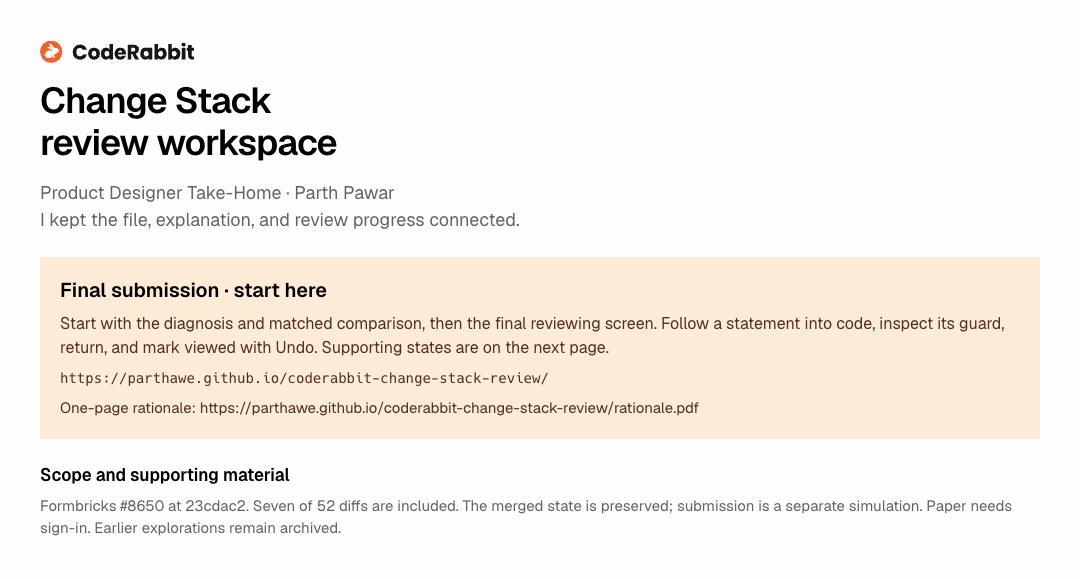
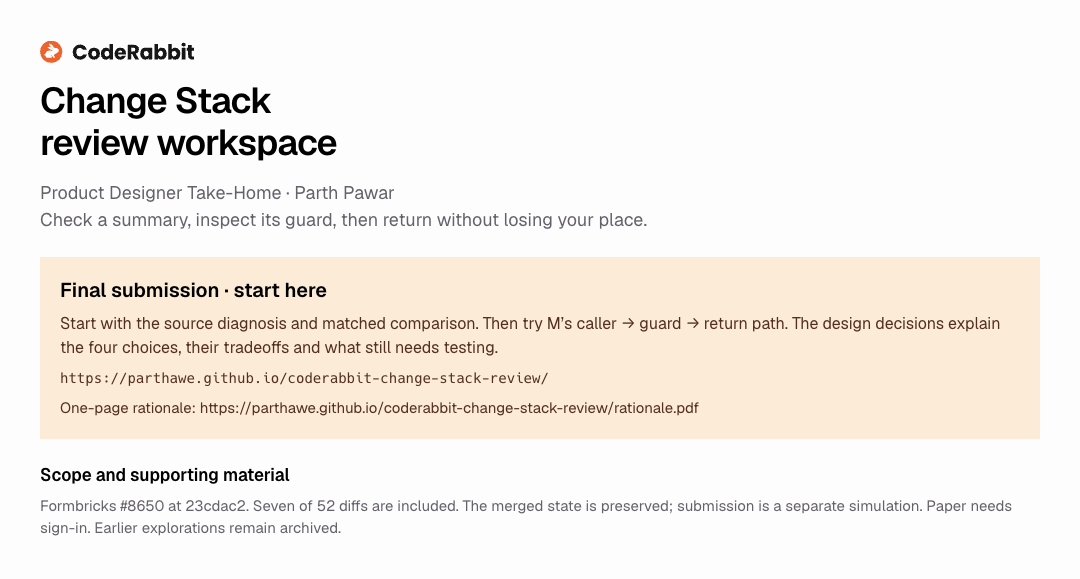
Document the four review decisions and their evidence

Changed region(s): [[0.0611, 0.5285, 0.9167, 0.6218], [0.0306, 0.3731, 0.6111, 0.4041]]

diff --git a/dist/rationale.html b/dist/rationale.html
@@ -1,1 +1,1 @@
-<!doctype html><html lang="en"><head><meta charset="utf-8"><meta name="viewport" content="width=device-width,initial-scale=1"><title>Change Stack — Design rationale</title><link rel="stylesheet" href="styles.css?v=brand-20261019"><style>body{display:block;overflow:auto;height:auto;min-width:0;background:white}article{max-width:850px;margin:64px auto;padding:0 32px 48px}h1{white-space:normal;font-size:32px;line-height:1.2;letter-spacing:-.03em;font-weight:600}h2{font-size:18px;margin:28px 0 12px}p{margin:12px 0;line-height:1.6;color:#65616a}table{border-collapse:collapse;width:100%;font-size:14px;margin:20px 0}th{text-align:left;color:#211f24;font-weight:500;background:#faf8fb}td,th{padding:14px 16px;border-bottom:1px solid #e3e0e7;vertical-align:top}td:first-child{width:36%;font-weight:500;color:#211f24}nav{margin-bottom:24px}.byline{font-size:13px;color:#65616a;margin-top:16px}.small{font-size:12px}@media print{article{margin:0;padding:0}nav{display:none}h1{font-size:24px}body{font-size:12px}table{font-size:11px}td,th{padding:10px}h2{font-size:15px;margin:18px 0 8px}@page{size:A4;margin:18mm}}</style><link rel="stylesheet" href="brand.css?v=brand-20261019"></head><body><article><nav><a href="index.html">Prototype</a> · <a href="https://app.paper.design/file/01M5AQACJZP42ZGTRX7GF9ERE7/p-1-0/1YS-0">Paper design</a> · <a href="comparison.html">Original and redesign</a> · <a href="rationale.pdf">PDF</a></nav><h1>What I changed in Change Stack</h1><p class="byline">CodeRabbit Change Stack · Formbricks #8650 · Parth Pawar</p><p>I kept the layer-based review model and focused on staying oriented while checking an explanation against code. The original already has summary navigation and explicit viewed status. I changed their presentation and added a return path for one cross-file inspection.</p><table><thead><tr><th>What got in the way</th><th>What I changed</th></tr></thead><tbody><tr><td>File identity and controls compete with the code.</td><td>The file list stays available in the rail. A fixed layer switcher keeps all seven layers reachable when files are expanded. Outline sits beside the code; occasional file actions stay in Tools.</td></tr><tr><td>A broad summary range leaves the supporting statement to find.</td><td>Six compact rows pair each statement with its code range. Full wording stays available. Inspect guard opens feedback-access.ts; Return restores the caller. About links explains that these manually mapped ranges are starting points, not proof.</td></tr><tr><td>File context and layer context need different scopes.</td><td>This file shows the selected explanation. Entire layer starts with compact summary rows across the nine paths. Scope and tabs stay fixed while context scrolls. Coverage is explicit: 14 of 37 summaries captured.</td></tr><tr><td>File viewed, summary seen and PR status mean different things.</td><td>Included files counts seven captured diffs. The layer shows seven reviewable files and two unavailable patches. Opening a file marks nothing viewed. Mark viewed has Undo. Summary seen stays in Summary options. The merged snapshot disables Submit review.</td></tr></tbody></table><h2>Keep the code readable</h2><p>Wrapped 13 px code trades horizontal movement for vertical scrolling. Added-file Split uses a 96 px Before rail; Equal panes restores 50/50. A direct anchor is a starting point: surrounding code and the complete source summary stay available.</p><h2>Checks and limits</h2><p>I checked direct code links, guard/return navigation, context scopes, progress and Undo, notes, Copy path, the six entities and keyboard access. The 1440 px, 1280 px and 1100 px layouts passed. These are implementation checks; developer testing remains outstanding.</p><h2>What I’d test next</h2><p>I’d test the caller, guard and return task, then start from code and ask what could make a reviewer disagree with the summary. Compare explanation accuracy and wrong turns on the same commit. Modified-file review and stale anchors still need testing.</p><p class="small">Formbricks #8650 at the out-of-date 23cdac2 snapshot. Seven of 52 diffs are included. The comparison uses final M with the same imports and six source points; the original capture is untouched. Full file and Captured ranges do not recreate semantic diffs. Nothing is sent.</p></article></body></html>
+<!doctype html><html lang="en"><head><meta charset="utf-8"><meta name="viewport" content="width=device-width,initial-scale=1"><title>Change Stack — Design rationale</title><link rel="stylesheet" href="styles.css?v=brand-20261019"><style>body{display:block;overflow:auto;height:auto;min-width:0;background:white}article{max-width:850px;margin:64px auto;padding:0 32px 48px}h1{white-space:normal;font-size:32px;line-height:1.2;letter-spacing:-.03em;font-weight:600}h2{font-size:18px;margin:28px 0 12px}p{margin:12px 0;line-height:1.6;color:#65616a}table{border-collapse:collapse;width:100%;font-size:14px;margin:20px 0}th{text-align:left;color:#211f24;font-weight:500;background:#faf8fb}td,th{padding:14px 16px;border-bottom:1px solid #e3e0e7;vertical-align:top}td:first-child{width:36%;font-weight:500;color:#211f24}nav{margin-bottom:24px}.byline{font-size:13px;color:#65616a;margin-top:16px}.small{font-size:12px}@media print{article{margin:0;padding:0}nav{display:none}h1{font-size:24px}body{font-size:12px}table{font-size:11px}td,th{padding:10px}h2{font-size:15px;margin:18px 0 8px}@page{size:A4;margin:18mm}}</style><link rel="stylesheet" href="brand.css?v=brand-20261019"></head><body><article><nav><a href="index.html">Prototype</a> · <a href="https://app.paper.design/file/01M5AQACJZP42ZGTRX7GF9ERE7/p-1-0/1YS-0">Paper design</a> · <a href="comparison.html">Original and redesign</a> · <a href="rationale.pdf">PDF</a></nav><h1>What I changed in Change Stack</h1><p class="byline">CodeRabbit Change Stack · Formbricks #8650 · Parth Pawar</p><p>I chose one review task: check a summary against the code, inspect the access guard, then return without losing my place. I kept CodeRabbit’s layer-based model, summary jumps and deliberate viewed state. M changes how those pieces work together.</p><table><thead><tr><th>What I focused on</th><th>Decision and reason</th></tr></thead><tbody><tr><td>Keep the file and review scope visible.</td><td>The rail keeps file navigation available. This file and Entire layer make the context scope explicit. File controls stay beside the diff; secondary tools sit behind a disclosure. This keeps the reading task visible while moving through the PR.</td></tr><tr><td>Make each summary point checkable.</td><td>Six compact rows link statements to specific code ranges. The full source wording and Whole function stay available. About links explains the manual mapping. A highlight helps locate code; the reviewer still has to judge the claim.</td></tr><tr><td>Return from the guard without rebuilding context.</td><td>Inspect guard opens feedback-access.ts. Return restores the caller’s statement, reading position and context. I built one route to demonstrate continuity across files. Automatic dependency navigation remains outside this prototype.</td></tr><tr><td>Keep progress separate from approval.</td><td>Opening a file marks nothing viewed. Mark viewed has Undo. The layer distinguishes seven reviewable files from two unavailable patches. Summary seen is separate, and Submit review is disabled for this merged PR.</td></tr></tbody></table><h2>The space tradeoff</h2><p>Wrapped 13 px code avoids horizontal movement but adds vertical scrolling. Added-file Split gives the empty Before pane 96 px; Equal panes restores 50/50. Compact statement rows keep all six checks visible at 1280 × 720. Modified-file Split still needs a separate check.</p><h2>What I checked</h2><p>The caller/guard return, statement links, viewed/Undo and affected layouts were checked at 1440, 1280 and 1100 px. The pass caught and fixed crowded file navigation and Escape closing the wrong panel. These checks establish behavior, not better review outcomes.</p><h2>What I’d test next</h2><p>I’d compare the same task on both screens, then ask developers to start from code and challenge the summary. Watch explanation accuracy, missed branches and backtracking. Precise links are only useful if people still inspect enough code.</p><p class="small">Formbricks #8650 at the out-of-date 23cdac2 snapshot. Seven of 52 diffs are included. The comparison uses final M with the same imports and six source points; the original capture is untouched. Full file and Captured ranges do not recreate semantic diffs. Nothing is sent.</p></article></body></html>

diff --git a/docs/critical-design-decisions.md b/docs/critical-design-decisions.md
@@ -1,0 +1,76 @@
+# What I built, and why
+
+Final M · Formbricks #8650 · pinned commit 23cdac2 · documentation updated October 23, 2026.
+
+I chose one review task: check a summary against code, inspect the access guard, then return without losing my place. The design should help a reviewer stay oriented through that task. Whether it improves their understanding still needs testing.
+
+The original already had layers, summary jumps, explicit viewed state, J/K navigation and Z focus mode. I preserved those capabilities. The work below changes their presentation and demonstrates a more specific reading path.
+
+## Four decisions to present
+
+### 1. Keep the file and review scope visible
+
+**Problem I saw:** file identity, layer context and actions compete above the diff. It takes attention to work out which context belongs to the current file.
+
+**What I built:** a persistent file rail, a compact layer heading and one file toolbar. This file and Entire layer state what the context panel contains. Entire layer starts with short rows grouped by file. Less frequent review tools sit behind a disclosure.
+
+**Show it:** switch between This file and Entire layer, then change files. The selected file remains identifiable; returning to a file restores its reading state. Opening a file does not change viewed progress.
+
+**Tradeoff:** the rail and context panel each scroll. This leaves more room for code, but the navigation is denser at 720px height. The fixed layer switcher keeps the other layers reachable. Below 1280px, context becomes an overlay.
+
+### 2. Make each summary point checkable
+
+**Problem I saw:** the workspace-tenant summary covers lines 49–130. A reviewer still has to locate the code behind each of its six points.
+
+**What I built:** six compact, full-row actions pair a behavior label with a specific range. Selecting one moves to that range and highlights the corresponding statement. Read full source summary preserves the original wording; Whole function and Go to start preserve wider context. About links explains the manual mapping.
+
+**Show it:** select Require workspace access at L57–65, then Normalize tenant IDs at L75. Open the full source summary. All six short checks remain visible at 1280 × 720 without shrinking their labels.
+
+**Tradeoff:** a precise highlight can create false confidence. These anchors locate code; they do not verify the summary. Nine anchors across two access.ts summaries are manually mapped to this commit. There is no automatic anchor-generation or stale-anchor repair service.
+
+### 3. Return from the guard without rebuilding context
+
+**Problem I’m addressing:** checking a claim can require another file. The reviewer needs a way back to the exact reading context they left.
+
+**What I built:** Inspect guard opens feedback-access.ts at its access/entitlement check. Return to access.ts restores the caller’s selected statement, code position and context position. Neither visit marks a file viewed.
+
+**Show it:** follow L57–65 → Inspect guard → Return to access.ts. Read the surrounding guard code before returning. This is the main interaction to demonstrate in the submission.
+
+**Boundary:** one caller/guard route works. This does not establish that the original has no return mechanism, nor does it implement a general dependency browser. The contribution is a visible, testable continuity path for the supplied PR.
+
+### 4. Keep progress separate from approval
+
+**Problem I’m addressing:** visiting a file, seeing a summary and approving a PR mean different things. Missing content should not look like unfinished work the reviewer can complete here.
+
+**What I built:** deliberate Mark viewed with Undo; a separate summary-seen action; seven included-file progress; and a layer label that separates seven reviewable files from two unavailable patches. The layer still lists all nine paths. Submit review is disabled for the merged PR; the open-PR decision flow is an explicitly labeled simulation.
+
+**Show it:** visit the guard and return with zero files viewed. Mark access.ts viewed, then Undo. Both visible reviewable-file counts change together. Nothing is sent externally.
+
+**Boundary:** notes, reading state and progress live in the current browser tab. Reloading resets that local session. Persistence, collaboration and real submission require a service contract.
+
+## Supporting work worth mentioning if asked
+
+| Work | Reason and boundary |
+| --- | --- |
+| Wrapped 13px code and compact added-file Split | The empty Before pane uses 96px so the added code has room. Equal panes restores 50/50. Wrapping adds vertical scrolling. Modified-file patches are not demonstrated. |
+| Keyboard and recovery behavior | Statement activation restores focus; guard Return restores its entry point; Escape closes link help before the context overlay. Loading, retry, missing-patch and no-comments states have explicit exits. A complete assistive-technology audit remains outstanding. |
+| Long filenames and secondary tools | The filename truncates before file navigation shrinks. The full name remains available. More review tools groups secondary previews; preview destinations are labeled before entry. |
+| Matched comparison | Both screens show the same seven imports and six source-summary points. The original capture is untouched. It checks content retention and hierarchy; it is not a timed usability result. |
+
+## What the evidence supports
+
+The [verification record](verification.md) documents working interactions and tested layouts. The independent reassessment is 32/40 on an AI heuristic checklist, not a CodeRabbit grade. Keep that score in the process notes rather than using it as proof in the submission.
+
+The fixture contains seven complete added-file diffs out of 52, nine layer-1 paths and fourteen of 37 layer summaries. Missing patches, uncaptured replies and secondary workflows are disclosed. No additional findings or PR content were invented to fill those gaps.
+
+My next test would use the same commit and content on both interfaces. First ask developers to explain the access check and inspect its guard. Then start from code and ask what could make them disagree with the summary. Record explanation accuracy, missed branches and backtracking. That counter-test matters because the current demonstration follows the path I designed to work well.
+
+## Where this reasoning lives
+
+- [Paper](https://app.paper.design/file/01M5AQACJZP42ZGTRX7GF9ERE7/p-1-0/1YS-0): source diagnosis, matched comparison, M and design decisions. Sign-in required.
+- [Prototype task](https://parthawe.github.io/coderabbit-change-stack-review/index.html?task=access-check): executable caller/guard path.
+- [One-page rationale](https://parthawe.github.io/coderabbit-change-stack-review/rationale.pdf): the four decisions and the next test.
+- [Requirement cross-check](REQUIREMENT-AUDIT.md): capability destinations and gaps.
+- [Walkthrough](submission-walkthrough.md): presentation order. Four earlier approaches remain archived.
+
+The current rationale copy is maintained in rationale-content.json and reflected in Paper, the HTML rationale and PDF. Earlier review reports keep their original observations; they should not be read as the current behavior specification.

diff --git a/docs/REQUIREMENT-AUDIT.md b/docs/REQUIREMENT-AUDIT.md
@@ -1,6 +1,6 @@
 # Assignment cross-check
 
-Updated October 22, 2026. Direct links, guard/return, scopes, progress/Undo, notes, Copy path, six entities and keyboard checks passed at 1440px, 1280px and the 1100px overlay breakpoint.
+Updated October 23, 2026. Direct links, guard/return, scopes, progress/Undo, notes, Copy path, six entities and keyboard checks passed at 1440px, 1280px and the 1100px overlay breakpoint.
 
 The submission is one layer-based reviewing screen, editable Paper and a one-page rationale. It uses the exact assigned Formbricks #8650 review snapshot at 23cdac2. The PR is merged and the snapshot is out of date. Seven captured added-file diffs support the demonstration; the exercise does not recreate all 52 files.
 
@@ -23,12 +23,12 @@ The submission is one layer-based reviewing screen, editable Paper and a one-pag
 | Full file and range display | All captured added lines or captured summary ranges. Source semantic-diff engine is not recreated. |
 | Semantic outline | Six captured access.ts entities in an anchored Outline popover. Other entities are not inferred. |
 | Copy path and notes | Copy file path in Tools; Add file note and local line notes in Comments. Drafts remain in tab memory. |
-| Progress | Header uses seven-file sample; rail uses nine-file layer; footer discloses seven of 52 PR diffs. Viewed and seen remain separate. |
+| Progress | Header counts seven included diffs. The layer lists nine paths and shows seven reviewable files plus two unavailable patches. The footer discloses seven of 52 PR diffs. Viewed and seen remain separate. |
 | Review decision | Submit disabled for the merged PR. Separate Open-PR review demo under Source notes & states, with simulated decisions. |
 | Split and Focus | Compact added-file Before rail, wrapped code, reversible Equal panes and Focus with reading-position preservation. |
 | Source comments | Paraphrased resolved thread; missing replies disclosed. Resolved visibility and local-note recovery remain available. |
 | Recovery | Loading, unavailable-source and no-comments states; retry and return paths. |
-| Continue, Follow review, global Files mode and Diagrams | Continue beside context, Follow review with review tools, Files beside Layers, and Diagrams beside layer details. Each is a labeled preview; downstream actions remain outside scope. |
+| Continue, Follow review, global Files mode and Diagrams | Continue beside context, Follow review under More review tools, Files beside Layers, and Diagrams beside layer details. Each is a labeled preview; downstream actions remain outside scope. |
 | PR search, impact, history and settings | Clearly labeled captured metadata or previews. Full-PR search and uncaptured analysis are outside scope. |
 
 The original already supported summary jumps, deliberate viewed state, J/K and Z. The changes refine their presentation and add narrower continuity paths; the rationale and recording credit those source capabilities.
@@ -40,3 +40,5 @@ Missing capabilities include modified-file patches, full-PR search, global Files
 The matched comparison now uses final M at the same 1280 × 720 viewport with imports 1–7 and the same six source points. The original capture stays untouched; M reflects the later observed merged status and disables Submit. Final sample and layer progress are locally initialized at zero. The current check list is in verification.md. Earlier AI critiques describe their saved baseline and do not establish developer usability. Developer testing remains outstanding.
 
 The final Paper page contains five boards; ten supporting boards have their own page. Earlier A–D concepts are archived. Branding follows the official CodeRabbit reference with semantic diff colors retained. No full brand certification or two-hour completion claim is made.
+
+The current design argument and demonstration steps are in [Critical design decisions](critical-design-decisions.md). Historical review reports remain evidence of earlier passes, not the current behavior specification.

diff --git a/docs/submission-walkthrough.md b/docs/submission-walkthrough.md
@@ -2,12 +2,14 @@
 
 The final screen keeps layer-based, file-by-file review. The five primary Paper boards are start, source diagnosis, matched comparison, reviewing screen and rationale. Ten supporting boards live on a separate page. Earlier approaches remain archived.
 
+The main argument is continuity while checking code. Use [Critical design decisions](critical-design-decisions.md) for the decision, demonstration and limitation behind each step.
+
 ## Three-minute recording
 
 1. Show the original diagnosis and the matched comparison. Both show the same imports and six source-summary points. Final M uses short labels and keeps the full wording available. The original already supports summary jumps and explicit viewed status. Its historical progress and review availability remain untouched; M starts at zero local progress and reflects the merged PR.
 2. Open the final prototype at access.ts. Follow L57–65 beside the workspace-access point. Choose Inspect guard to open feedback-access.ts at its captured 20–49 summary, then Return to access.ts.
 3. Choose Entire layer. Explain the 14 captured summaries grouped under nine file paths, with coverage against the original total of 37. Return to This file.
-4. Point to sample and layer progress. Mark viewed and Undo. The seven-file sample, nine-file layer and 52-file PR are different scopes.
+4. Point to Included files and the layer’s seven reviewable files plus two unavailable patches. Mark viewed and Undo. Explain that visiting a file, seeing a summary and approving a PR are different actions.
 5. Close on the limits and developer test. Show compact Split only if there is time; wrapping trades horizontal movement for vertical scrolling.
 
 The main snapshot is merged and Submit review is disabled. If asked, Source notes & states opens a separately labeled Open-PR review demo. Its decisions are simulated. J/K and Z were preserved from the source.

diff --git a/README.md b/README.md
@@ -10,6 +10,8 @@ Design exercise by Parth Pawar using the assigned Formbricks PR #8650.
 
 Paper contains the diagnosis, matched comparison, final reviewing screen and rationale. Supporting states have their own page. Paper requires sign-in; the prototype and rationale are public. The [walkthrough](docs/submission-walkthrough.md) gives the presentation sequence.
 
+The [critical design decisions](docs/critical-design-decisions.md) explain what changed, why it matters, how to demonstrate it and what remains unproven. Start there for the documentation; earlier review reports record prior passes.
+
 ## Design argument
 
 I kept layer-based review and focused on staying oriented while checking an explanation against code. The original already has summary navigation, explicit viewed status, J/K and Z. The comparison pairs the untouched original capture with final M using the same imports and six source points. M shows the later observed merged status. This version keeps short checks visible and the full source wording one click away, links its individual points to code, and provides a return path after inspecting a guard in another file. File and layer context have explicit scopes. Included files, layer progress and PR coverage are labeled separately.

diff --git a/docs/recording-script.md b/docs/recording-script.md
@@ -42,7 +42,7 @@ Click: Choose Entire layer. Point to file groups and 14 of 37 coverage. Return t
 
 ## 2:15–2:35 · Show progress and Undo
 
-Click: Point to Sample 0 / 7 and Layer 1 0 / 9. Click Mark viewed, then Undo.
+Click: Point to Included files 0 / 7 and the two unavailable layer patches. Click Mark viewed, then Undo.
 
 > Opening a file doesn’t mark it reviewed. I kept that deliberate action and added Undo. Progress is labeled by scope. This PR is merged, so Submit review is disabled.
 
